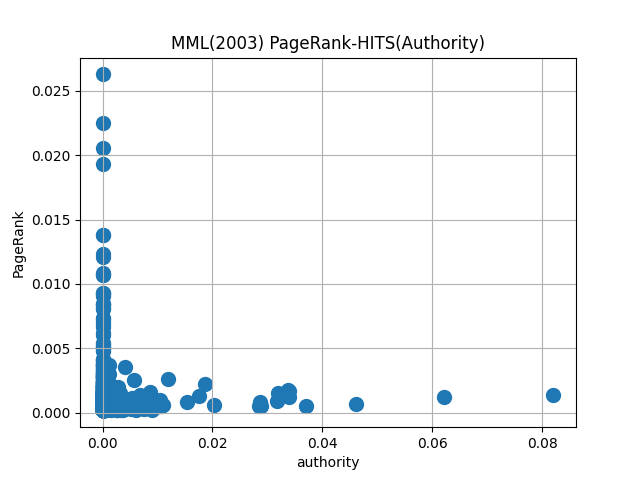
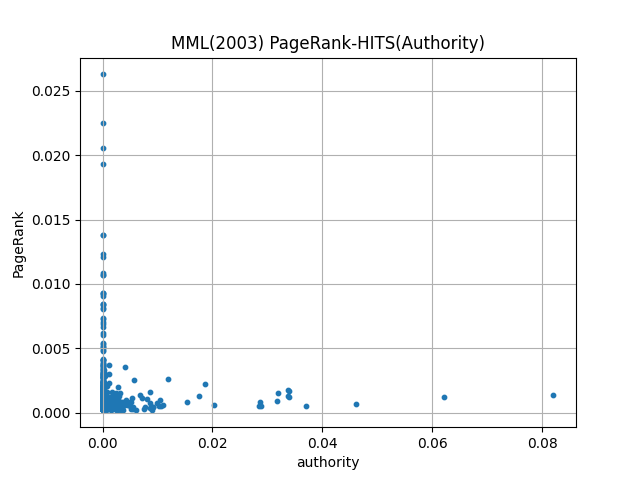
plotのサイズを小さくした

diff --git a/graph/create_table.py b/graph/create_table.py
@@ -34,6 +34,6 @@ plt.xlabel("authority")
 plt.ylabel("PageRank")
 plt.grid(True)
 
-plt.scatter(x,y,vmin=0.0, vmax=1.0, s=100)
+plt.scatter(x,y,vmin=0.0, vmax=1.0, s=10)
 
 fig.savefig("MML(2020)_pagerank-authority-table.png")
